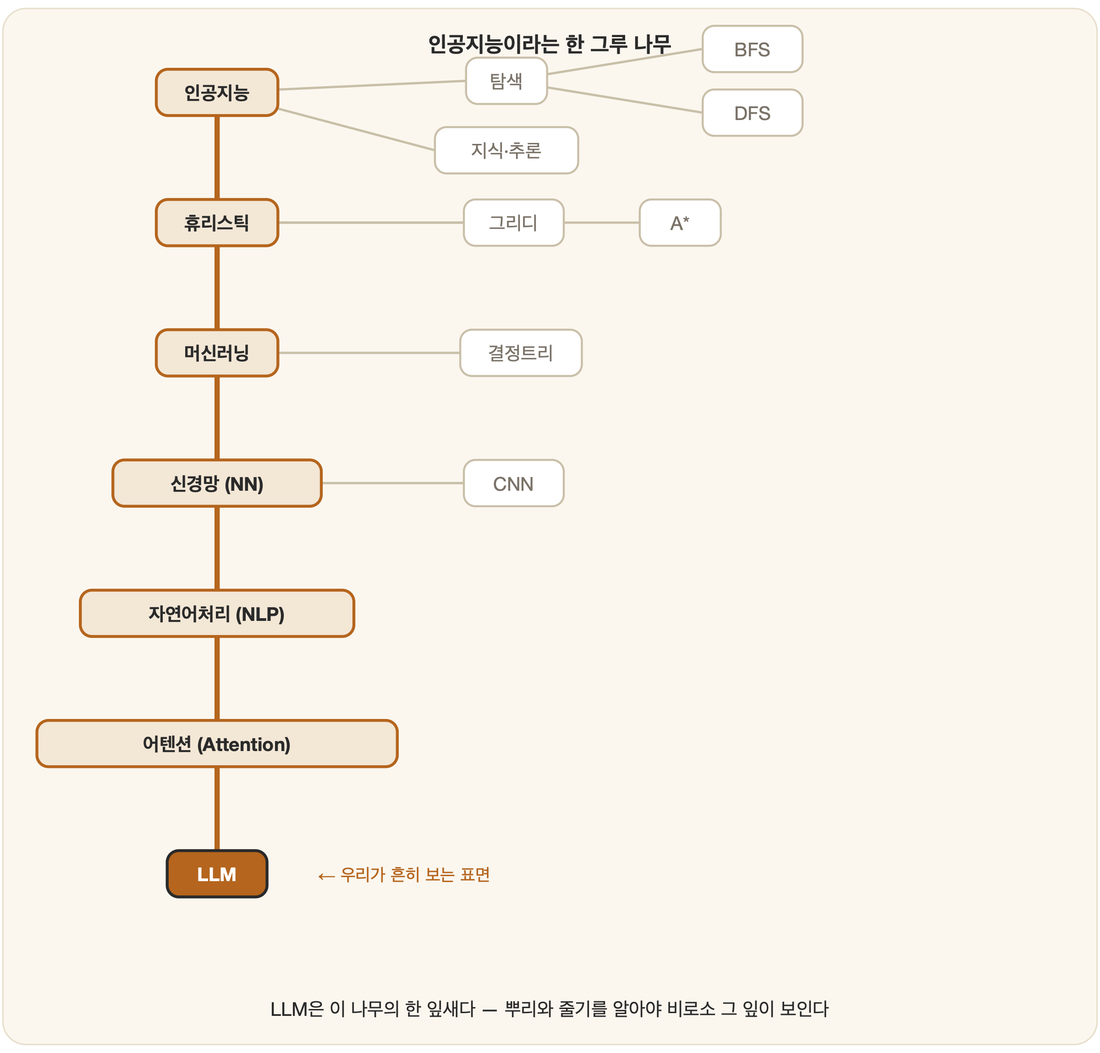
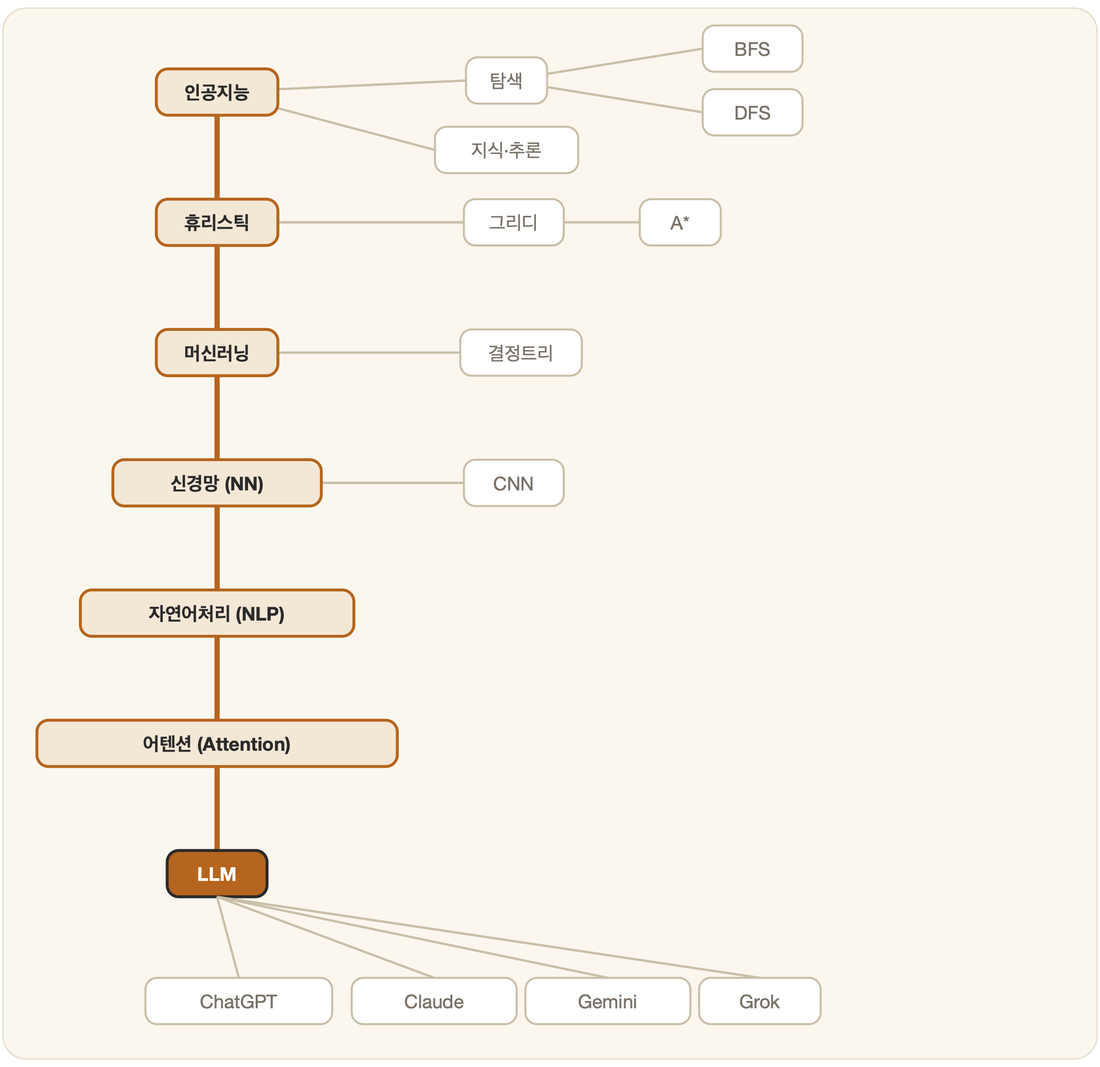
개념 트리 다듬기: 제목·주석·하단문구 제거, LLM 아래 ChatGPT·Claude·Gemini·Grok 추가

diff --git a/tools/gen_concept_tree.py b/tools/gen_concept_tree.py
@@ -7,7 +7,7 @@ import os
 A = os.path.join(os.path.dirname(os.path.dirname(os.path.abspath(__file__))), "pages", "assets")
 INK="#2A2A2A"; ACC="#B5651D"; PAPER="#FBF7EF"; BORD="#E7DFCB"; GRAY="#7A7268"; BAND="#F3E7D6"
 FONT="'Helvetica Neue', Arial, 'AppleSDGothicNeo', sans-serif"
-W,H=760,720
+W,H=760,730
 SX=150   # 척추 x 중심
 
 # 척추(위→아래)
@@ -33,7 +33,6 @@ ref.update({lab:(x,y) for lab,x,y in [(b[0],b[1],b[2]) for b in branch]})
 
 s=[f'<svg xmlns="http://www.w3.org/2000/svg" viewBox="0 0 {W} {H}" font-family="{FONT}">']
 s.append(f'<rect x="2" y="2" width="{W-4}" height="{H-4}" rx="16" fill="{PAPER}" stroke="{BORD}"/>')
-s.append(f'<text x="{W/2}" y="32" text-anchor="middle" font-size="15" fill="{INK}" font-weight="bold">인공지능이라는 한 그루 나무</text>')
 
 # 척추 간선(굵은 강조)
 for i in range(len(spine)-1):
@@ -58,10 +57,13 @@ for lab,x,y,_ in branch: s.append(node(lab,x,y,"leaf"))
 # 척추 노드
 for i,(lab,y) in enumerate(spine):
     s.append(node(lab,SX,y,"llm" if lab=="LLM" else "spine"))
-# LLM 주석
-s.append(f'<text x="{SX+70}" y="605" font-size="12" fill="{ACC}">← 우리가 흔히 보는 표면</text>')
-# 하단 메시지
-s.append(f'<text x="{W/2}" y="{H-22}" text-anchor="middle" font-size="13" fill="{INK}">LLM은 이 나무의 한 잎새다 — 뿌리와 줄기를 알아야 비로소 그 잎이 보인다</text>')
+# LLM 하위 모델들 (잎새 끝의 실제 제품들)
+models=[("ChatGPT",165,688),("Claude",300,688),("Gemini",420,688),("Grok",525,688)]
+lx,ly=pos["spine6"]
+for lab,x,y in models:
+    s.append(f'<line x1="{lx}" y1="{ly+16}" x2="{x}" y2="{y-16}" stroke="#C9BFA8" stroke-width="1.6"/>')
+for lab,x,y in models:
+    s.append(node(lab,x,y,"leaf"))
 s.append('</svg>')
 open(os.path.join(A,"concept-tree.svg"),"w",encoding="utf-8").write("\n".join(s))
 print("concept-tree.svg (세로 척추형, 계층 수정)")
